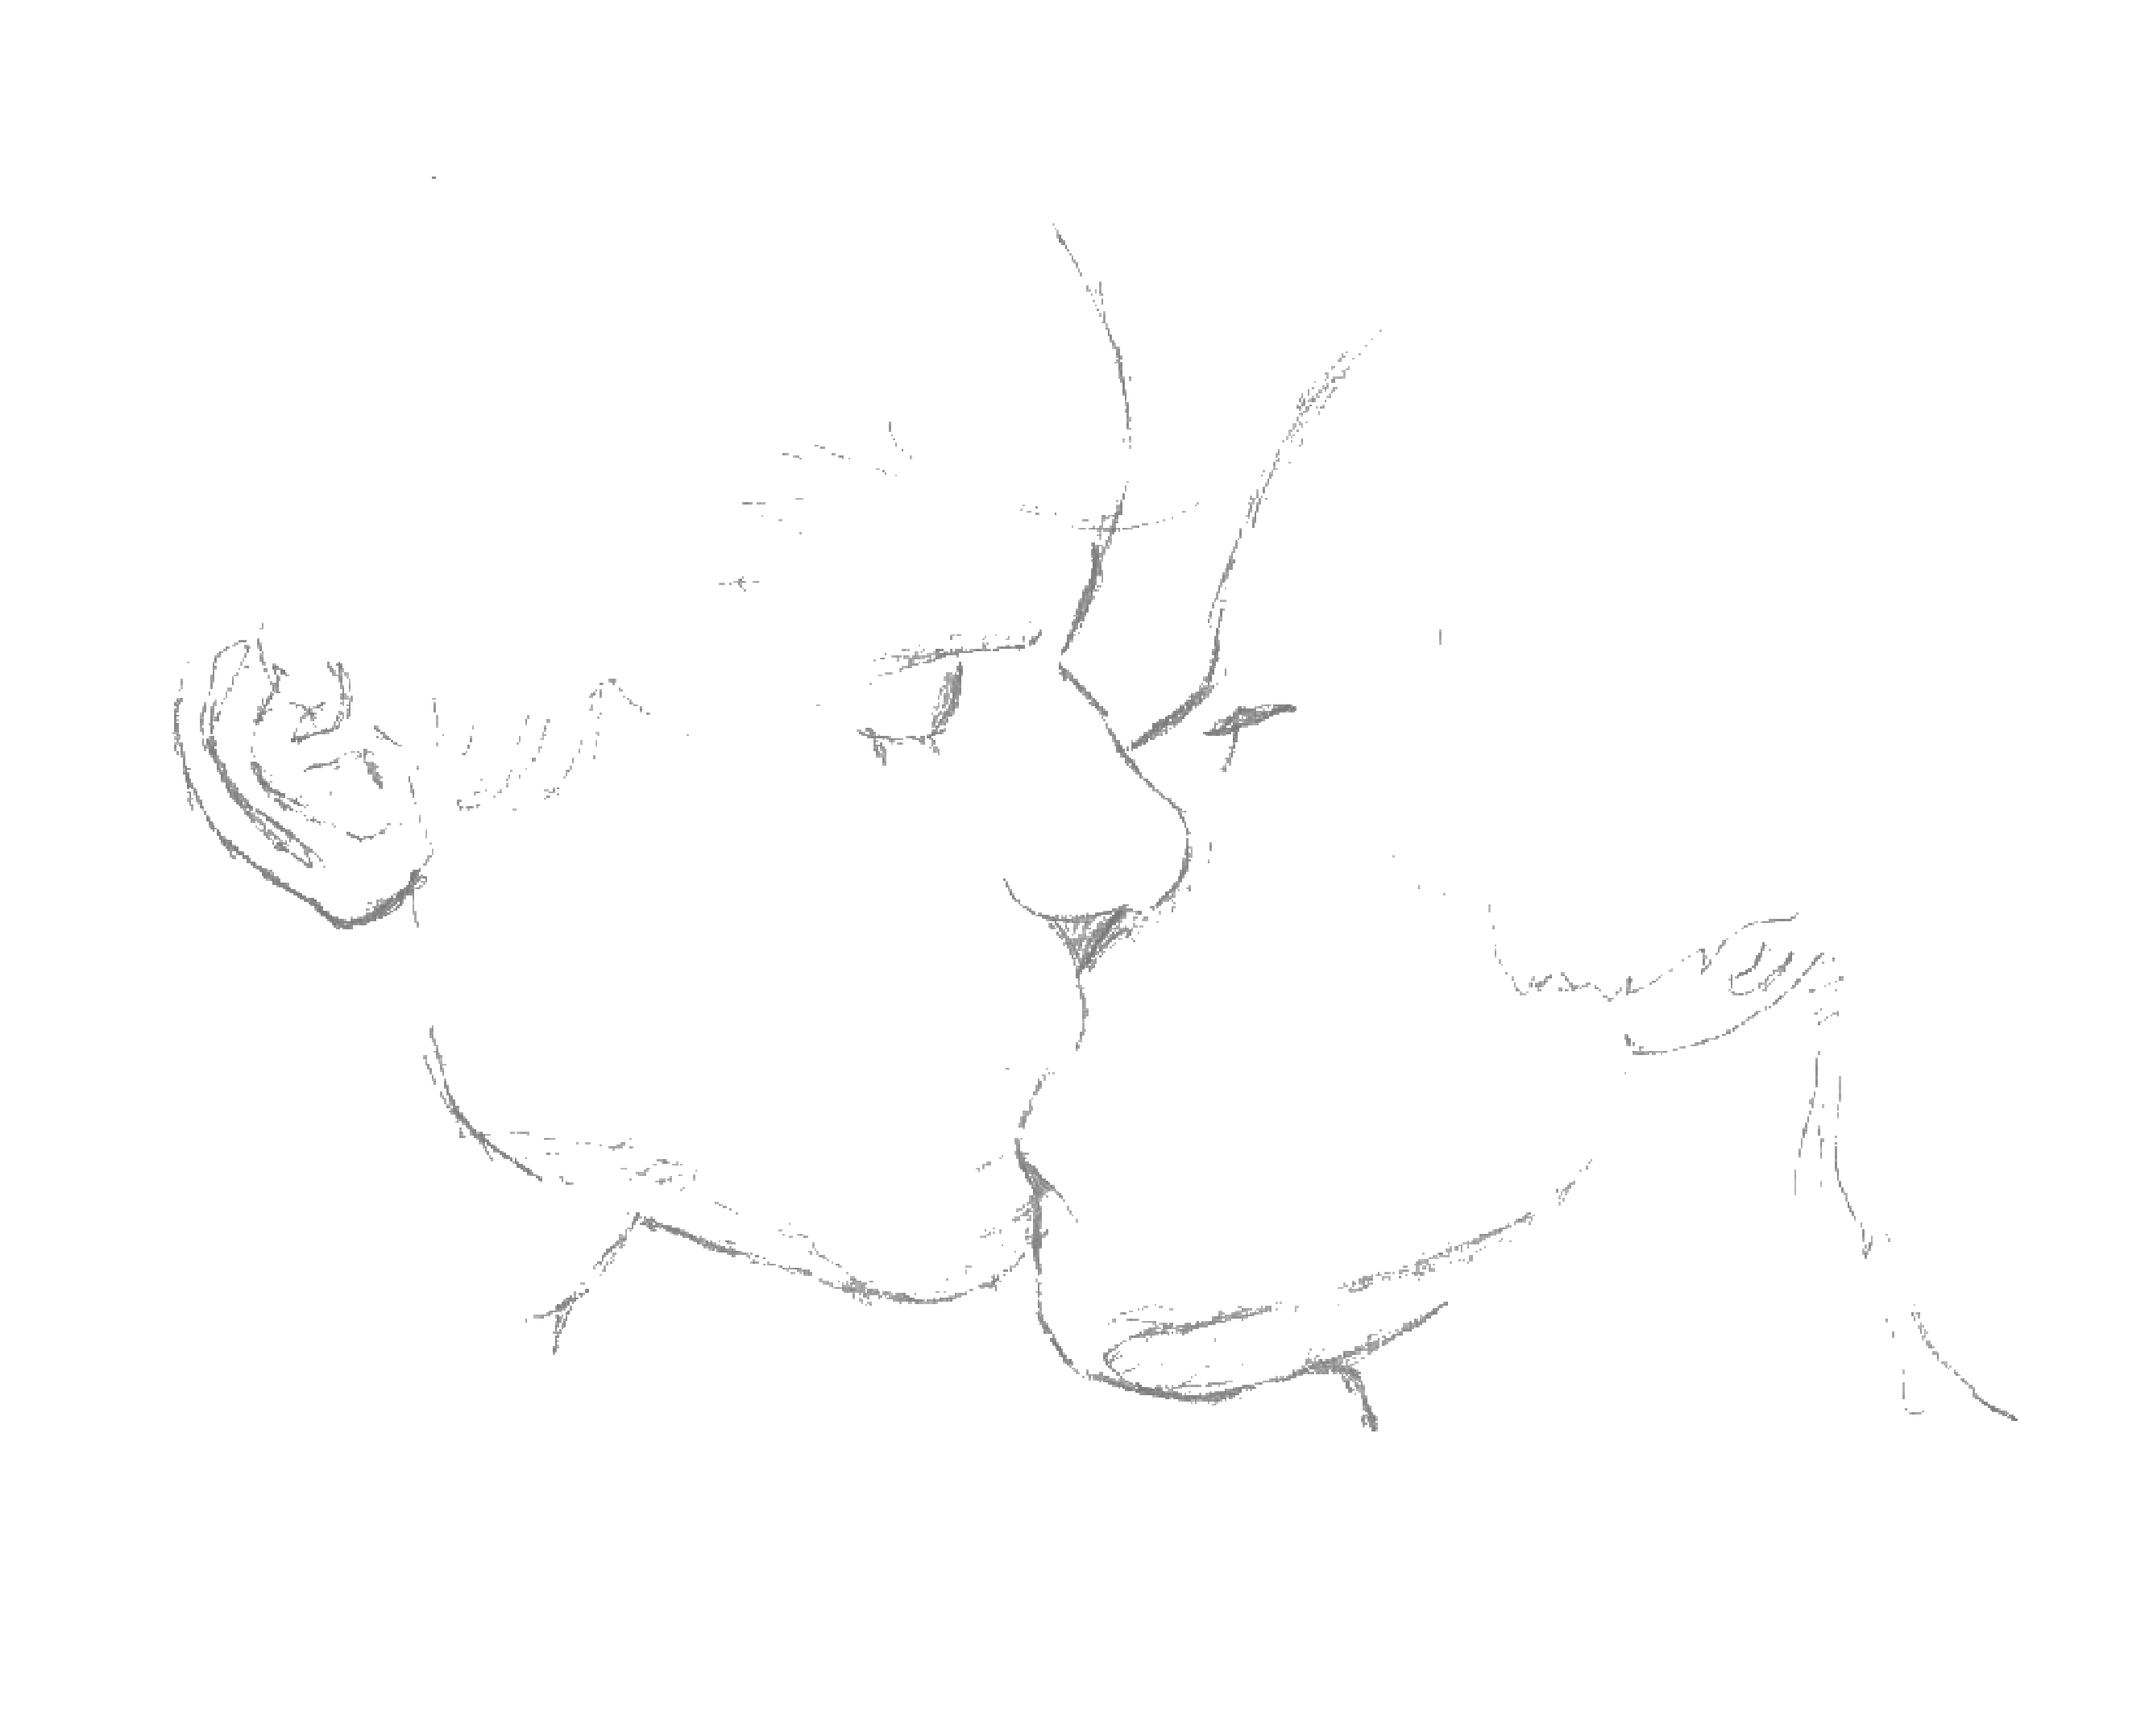
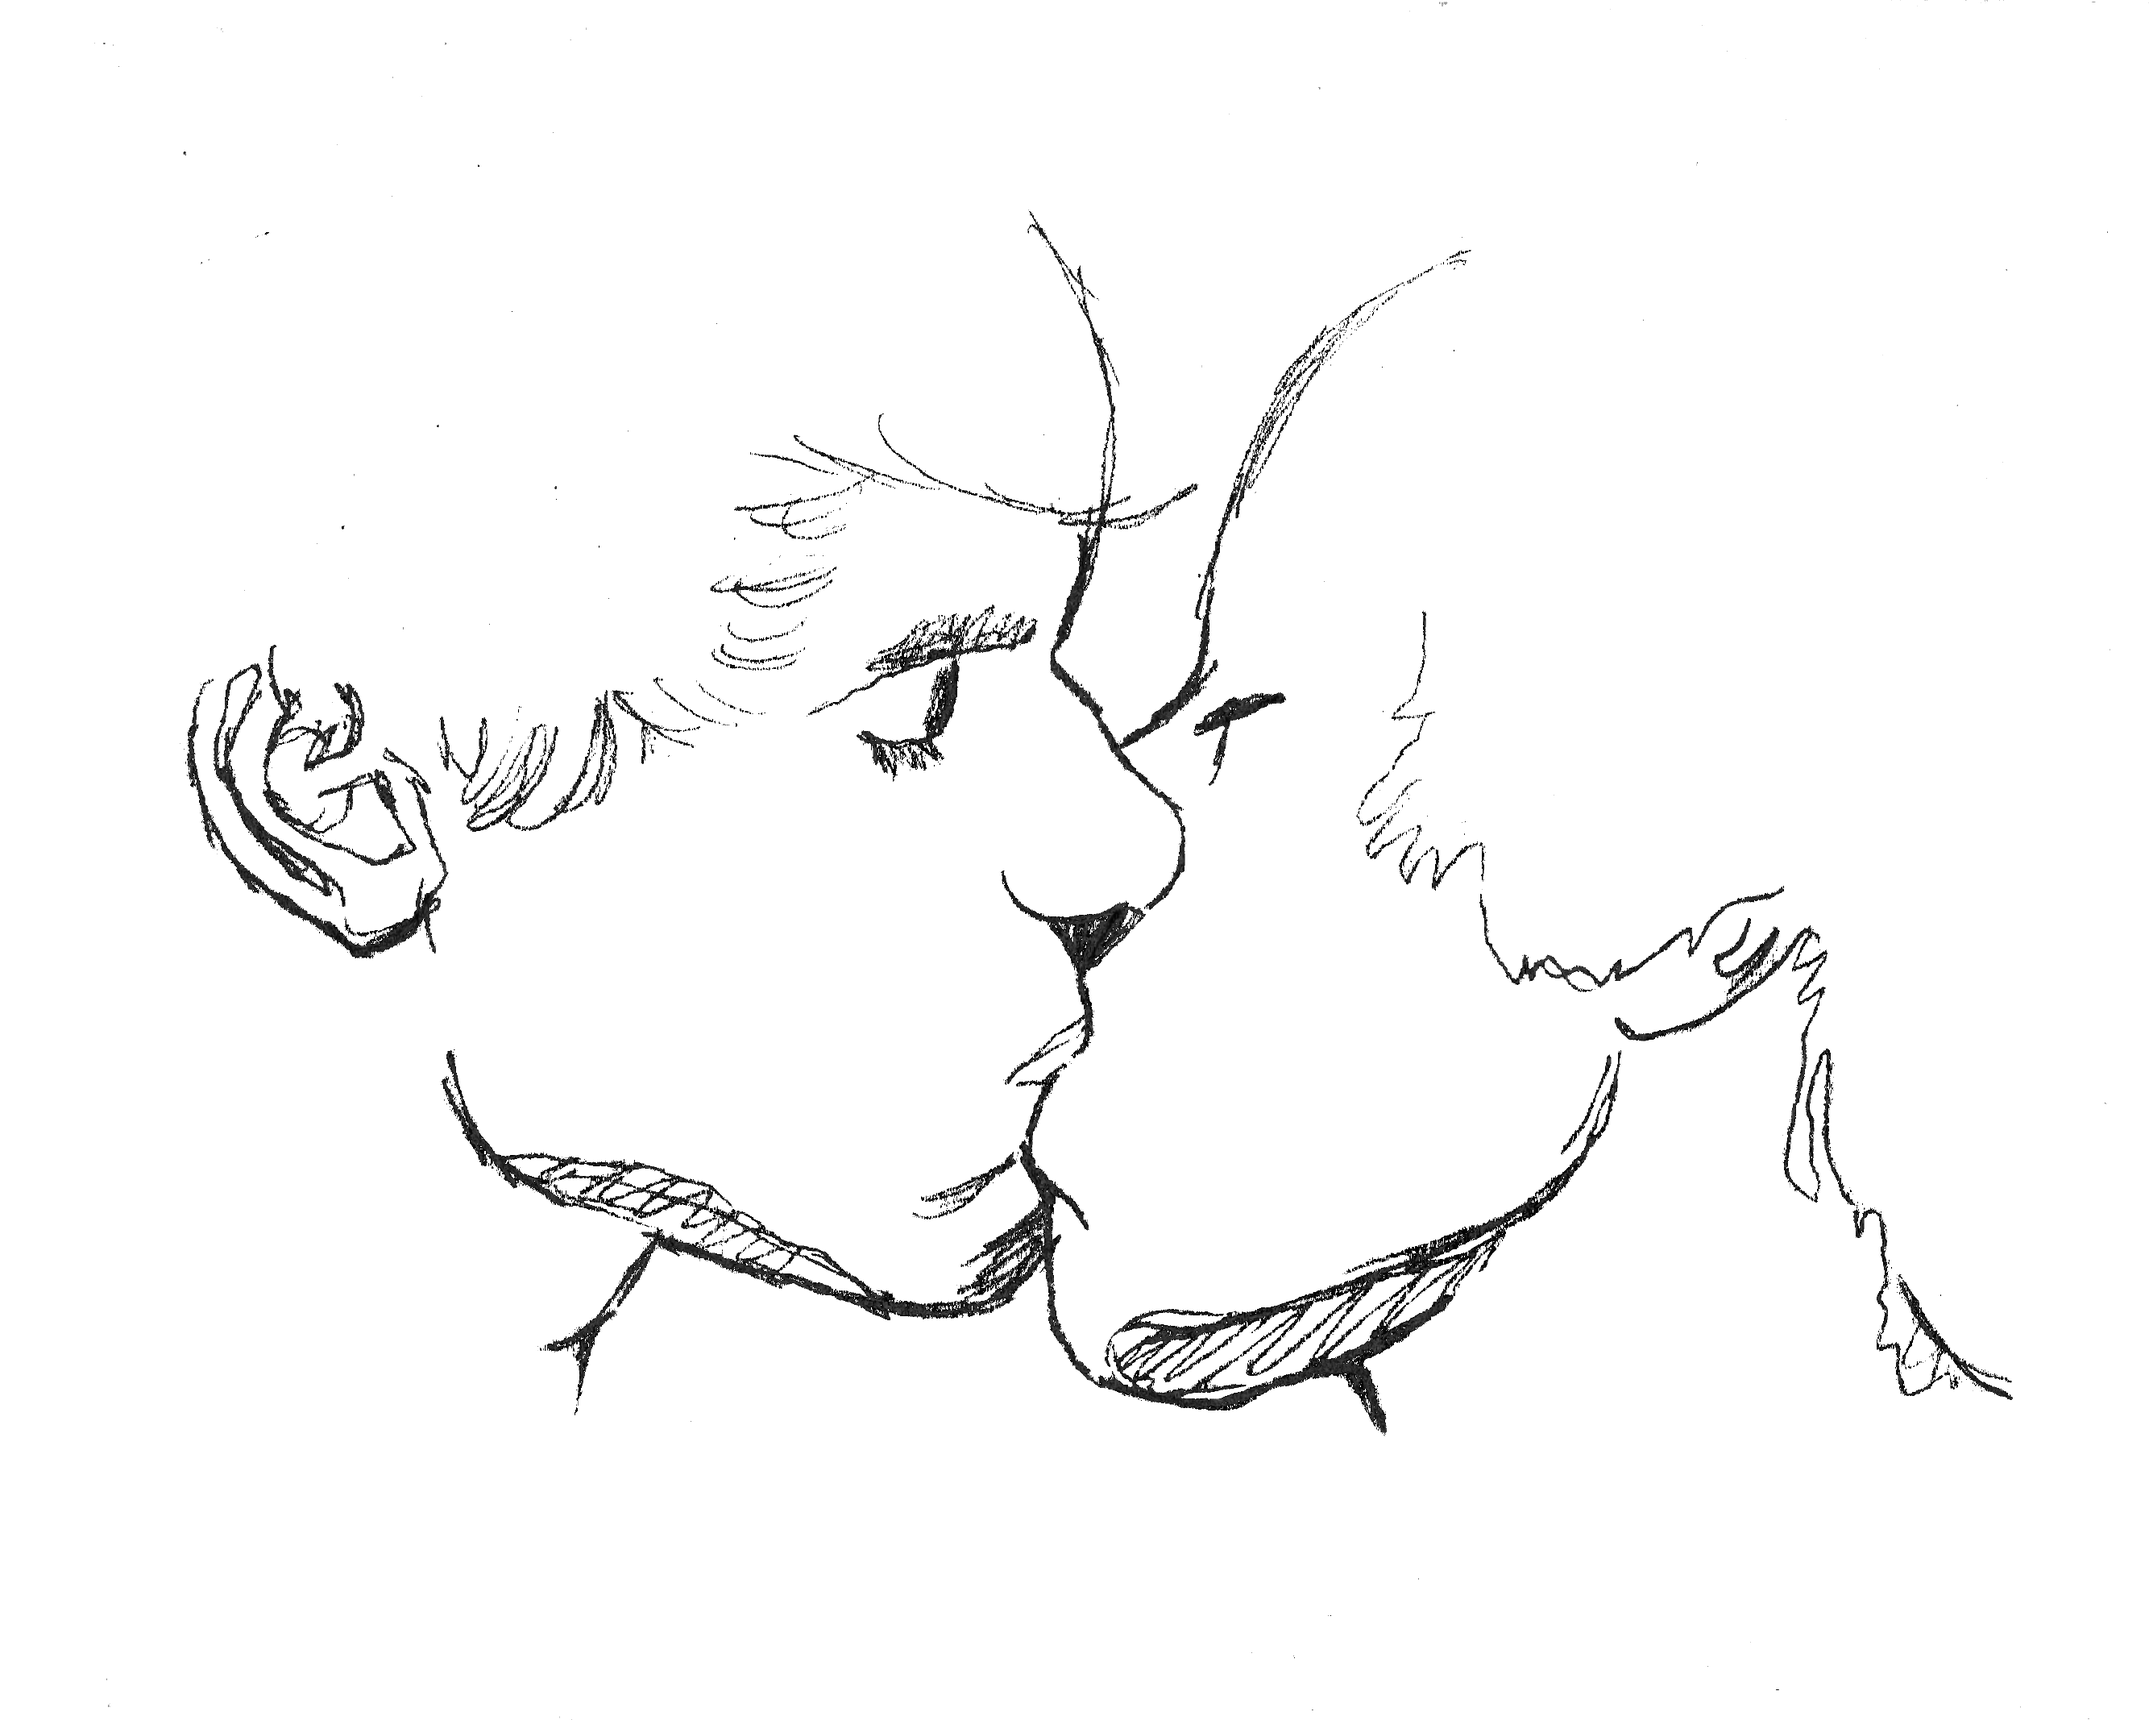
thursday push

diff --git a/dpub/TBK/assets/css/main.css b/dpub/TBK/assets/css/main.css
@@ -74,18 +74,19 @@ opacity: 0.5;
 
 .mation{
   top: 110px;
-  left: 65px;
-  width: 250px;
-  height: 200px;
+  left: 30px;
+  width: 255px;
+  height: 310px;
   font-family: 'Open Sans', sans-serif;
+  color: white;
   font-size: 13px;
   position: fixed;
   display: none;
   z-index: 100;
-  background-color: white;
+  background-color: rgba(0, 0, 0, 0.5);
   border-radius: 00px 10px 10px 10px;
-  padding-top: 10px;
-  padding-bottom: 10px;
+  padding-top: 20px;
+  padding-bottom: 20px;
   padding-left: 20px;
   padding-right: 20px;
 }
@@ -151,6 +152,7 @@ opacity: 0.5;
   position: absolute;
   margin-left: 9.5%;
   pointer-events: none;
+  opacity: 0.8;
   z-index: 1;
 }
 .left.showme{
@@ -214,10 +216,9 @@ opacity: 0.5;
   height: 200px;
   width: 800px;
   border-radius: 200px 0px 0px 200px;
-  padding: 10px;
-  padding-left: 60px;
+  padding-left: 65px;
   padding-right: 20px;
-  padding-top: 40px;
+  padding-top: 25px;
   position: absolute;
   font-family: 'Nova Script', cursive;
   font-size: 20px;
@@ -290,16 +291,16 @@ opacity: 0.5;
   padding-right: 20px;
   border-radius: 2px;
   position: absolute;
-  width: 300px;
+  width: 310px;
   font-family: 'Open Sans', sans-serif;
   font-size: 15px;
   line-height: 1.3;
   text-align: left;
-  margin-left: 240px;
+  margin-left: 270px;
   margin-right: 2000px;
   background-color: white;
   cursor:   col-resize;
-  top: 1570px;
+  top: 1630px;
   transition: 3s;
   z-index: 9;
   -webkit-clip-path: polygon(65% 0, 81% 0, 52% 100%, 37% 100%);
@@ -326,11 +327,11 @@ background-color: #3fa9f5;
 
 .man{
   top: 1350px;
-  width: 900px;
+  width: 970px;
   display: inline-block;
   background-image: url("assets/images/sculpture.png");
   position: absolute;
-  margin-left: 110px;
+  margin-left: 90px;
   pointer-events: none;
   z-index: 8;
   opacity: 0.5;
@@ -342,14 +343,12 @@ background-color: #3fa9f5;
 .intro{
   color: #ff7bac;
   padding-left: 20px;
-  padding-right: 5px;
   border-radius: 2px;
   position: absolute;
   font-family: 'Open Sans', sans-serif;
   font-size: 15px;
   line-height: 1.3;
-  letter-spacing: .3px;
-  left: 430px;
+  left: 400px;
   width: 410px;
   padding-right: 20px;
   cursor:   col-resize;
@@ -357,7 +356,7 @@ background-color: #3fa9f5;
   margin-left: 320px;
   margin-right: 200px;
   background-color: white;
-  top: 1760px;
+  top: 1790px;
   transition: 5s;
   z-index: 10;
   -webkit-clip-path: polygon(23% 0, 36% 0, 30% 100%, 15% 100%);
@@ -417,12 +416,12 @@ em{
     margin-left: 55.5%;
     position: absolute;
     z-index: 4;
-    opacity: 0.08;
+    opacity: 0.1;
     transition: 5s;
     pointer-events: none;
   }
 
-  .trace:hover{
+  .hair:hover{
     transition: 5s;
     opacity: 1.0;
   }
@@ -445,6 +444,13 @@ p, h1{
   z-index: 100;
 
 }
+
+h1{
+  font-family: 'Nova Script', cursive;
+  font-size: 40px;
+  font-weight: bold;
+}
+
 
 .text{
   width: 90%;
@@ -486,7 +492,50 @@ p, h1{
   position: absolute;
   transition: 5s;
   cursor: pointer;
-  opacity: 0.8;
+  z-index: 100;
+}
+
+.shade{
+  width: 33.5%;
+  margin-left: 60.1%;
+  padding-top: 65px;
+  position: absolute;
+  pointer-events: none;
+  cursor: none;
+  display: none;
+  transition: 2s;
+  z-index: 99;
+  opacity: 0.4;
+}
+
+.show{
+  cursor: crosshair;
+
+}
+
+.hide{
+  opacity: 0;
+  transition: 8s;
+}
+
+.hide.showme{
+  opacity: 1;
+  transition: 8s;
+}
+
+.hideus{
+  opacity: 0;
+  transition: 8s;
+}
+
+.hideus.showme{
+  opacity: 1;
+  transition: 8s;
+}
+
+.shade.showme{
+  display: block;
+  transition: 2s;
 }
 
 
@@ -494,9 +543,11 @@ p, h1{
 .noir-blue{
   width: 34%;
   margin-left: 60%;
+  padding-top: 65px;
   position: absolute;
   display: none;
   transition: 5s;
+  z-index: 100;
 }
 .noir-blue.showme{
   opacity: 0.5;
@@ -507,10 +558,12 @@ p, h1{
 .noir-pink{
   width: 34%;
   margin-left: 60%;
+  padding-top: 65px;
   position: absolute;
   display: none;
   transition: 5s;
   cursor: n-resize;
+  z-index: 100;
 }
 .noir-pink.showme{
   opacity: 0.5;

diff --git a/dpub/TBK/index.html b/dpub/TBK/index.html
@@ -28,10 +28,10 @@
 			<img class="info" src="assets/images/info-icon.png" alt="">
 
 			<div class="mation">
-				A vivid rejuvination of themes discussed in the banned book, "Two Boys Kissing" by David Leviathian.
+				A vivid rejuvenation of themes discussed in the banned book, "Two Boys Kissing" written by David Leviathan.
 				<br>
 				<br>
-				Capturing moods and emotions which are lost on paper, web alows for a far more visceral readthrough of this particular exert.
+				Capturing moods and emotions which are lost on paper, web allows for a far more visceral read through of this particular exert. Highlighting the narrators and charachters duality in the novel, bringing to light the sensitive yet contextual issue of homosexuality, gender and relationships in the 21st Century.
 			</div>
 
 			<header>
@@ -98,19 +98,18 @@ Challenging Convention
 
 	<br>
 
-	<img class="trace" src="assets/images/man_linework.png" alt="">
+	<img class="trace" src="assets/images/man_sketch.png" alt="">
 	<img  class="hair" src="assets/images/man_hair.png" alt="">
 
-	<p>Ryan and Avery do not see us.</p>
+	<p><span class="show">Ryan and Avery do not see us.</span></p>
 
-	<p>They do not know us, or need us, or feel us in the room.</p>
+	<div class="hide">
+		<p>They do not know us, or need us, or feel us in the room.</p>
 
 	<p>They don’t even see each other until about twenty minutes into the prom.</p>
 
+	</div>
 
-
-		<br>
-		<br>
 		<br>
 
 
@@ -119,22 +118,22 @@ Challenging Convention
 
 	<p>He spots Avery’s hair first, then Avery.</p>
 
+<div class="hideus">
 	<p>And Avery looks up at just that moment and sees the blue-haired boy glancing his way.</p>
 
 	<p>Some of us applaud.</p>
 
 	<p>Others look away, because it hurts too much.</p>
+</div>
 
 	<br>
-	<br>
-	<br>
 
-
+	<img 	class="shade" 			src="assets/images/shade-01.png" 			alt="">
 	<img 	class="noir" 			src="assets/images/noir.png" 			alt="">
 	<img  class="noir-blue" src="assets/images/noir-blue.png" alt="">
 	<img  class="noir-pink" src="assets/images/noir-pink.png" alt="">
 
-<p>We <strong>always</strong> underestimated our own participation in <span class="magic"><em>magic</em></span>.</p>
+<p>We <strong>always</strong> underestimated our own participation in <span class="magic"><em>magic.</em></span></p>
 
 <p>That is, we thought of <em>magic</em> as something that existed with or <strong>without us</strong>.</p>
 
@@ -147,9 +146,9 @@ Challenging Convention
 
 <p>Ryan and Avery will say the first moment they spoke, the first moment they danced,</p>
 
-<p>was <em>magical</em>.</p>
+<p>was <em>magical.</em></p>
 
-<p>But they were the ones - no one else, nothing else - who gave it the magic.</p>
+<p>But they were the ones - no one else, nothing else - who gave it the <em>magic.</em></p>
 
 <p><strong>We</strong> know.</p>
 

diff --git a/dpub/TBK/assets/js/main.js b/dpub/TBK/assets/js/main.js
@@ -110,8 +110,25 @@ $('.intro').click(function() {
 $('.intro').toggleClass('showme');
 });
 
+
+$('.show').hover(function() {
+$('.hide').addClass('showme');
+});
+
+
+$('.hair').click(function() {
+$('.hideus').toggleClass('showme');
+});
+
+
+
 $('.hair').click(function() {
 $('.trace').toggleClass('showme');
+});
+
+
+$('.noir').hover(function() {
+$('.shade').addClass('showme');
 });
 
 
